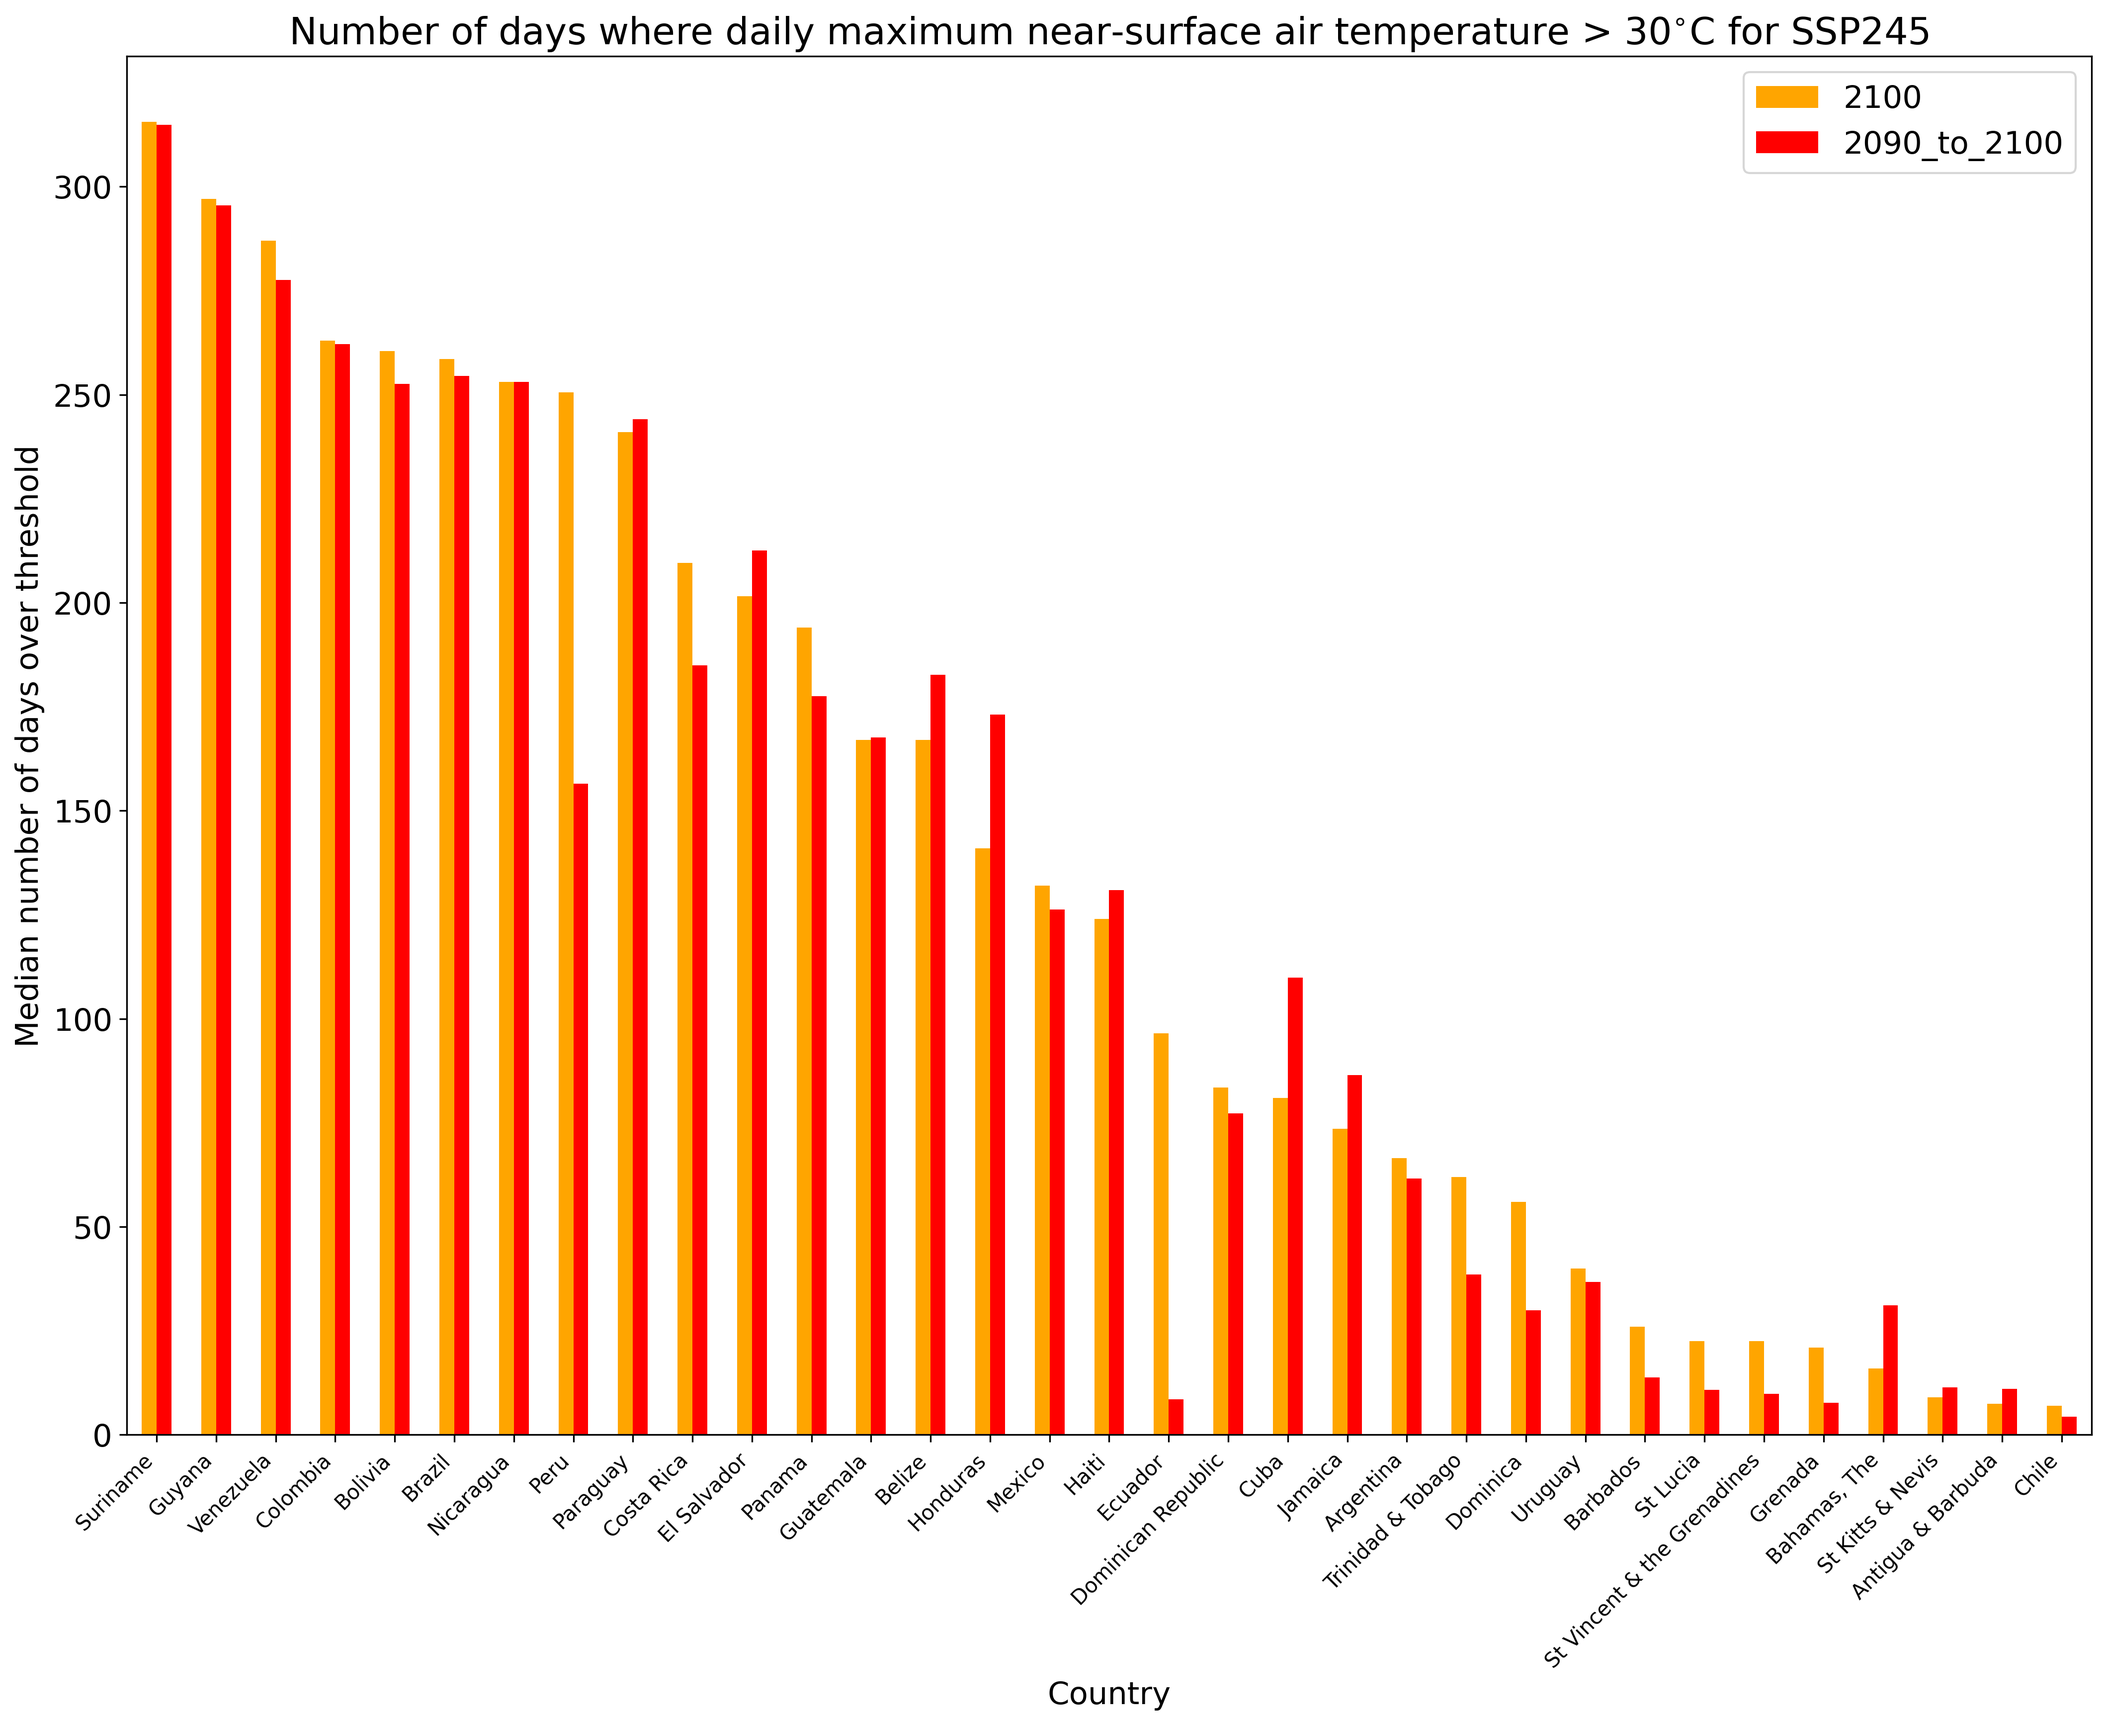
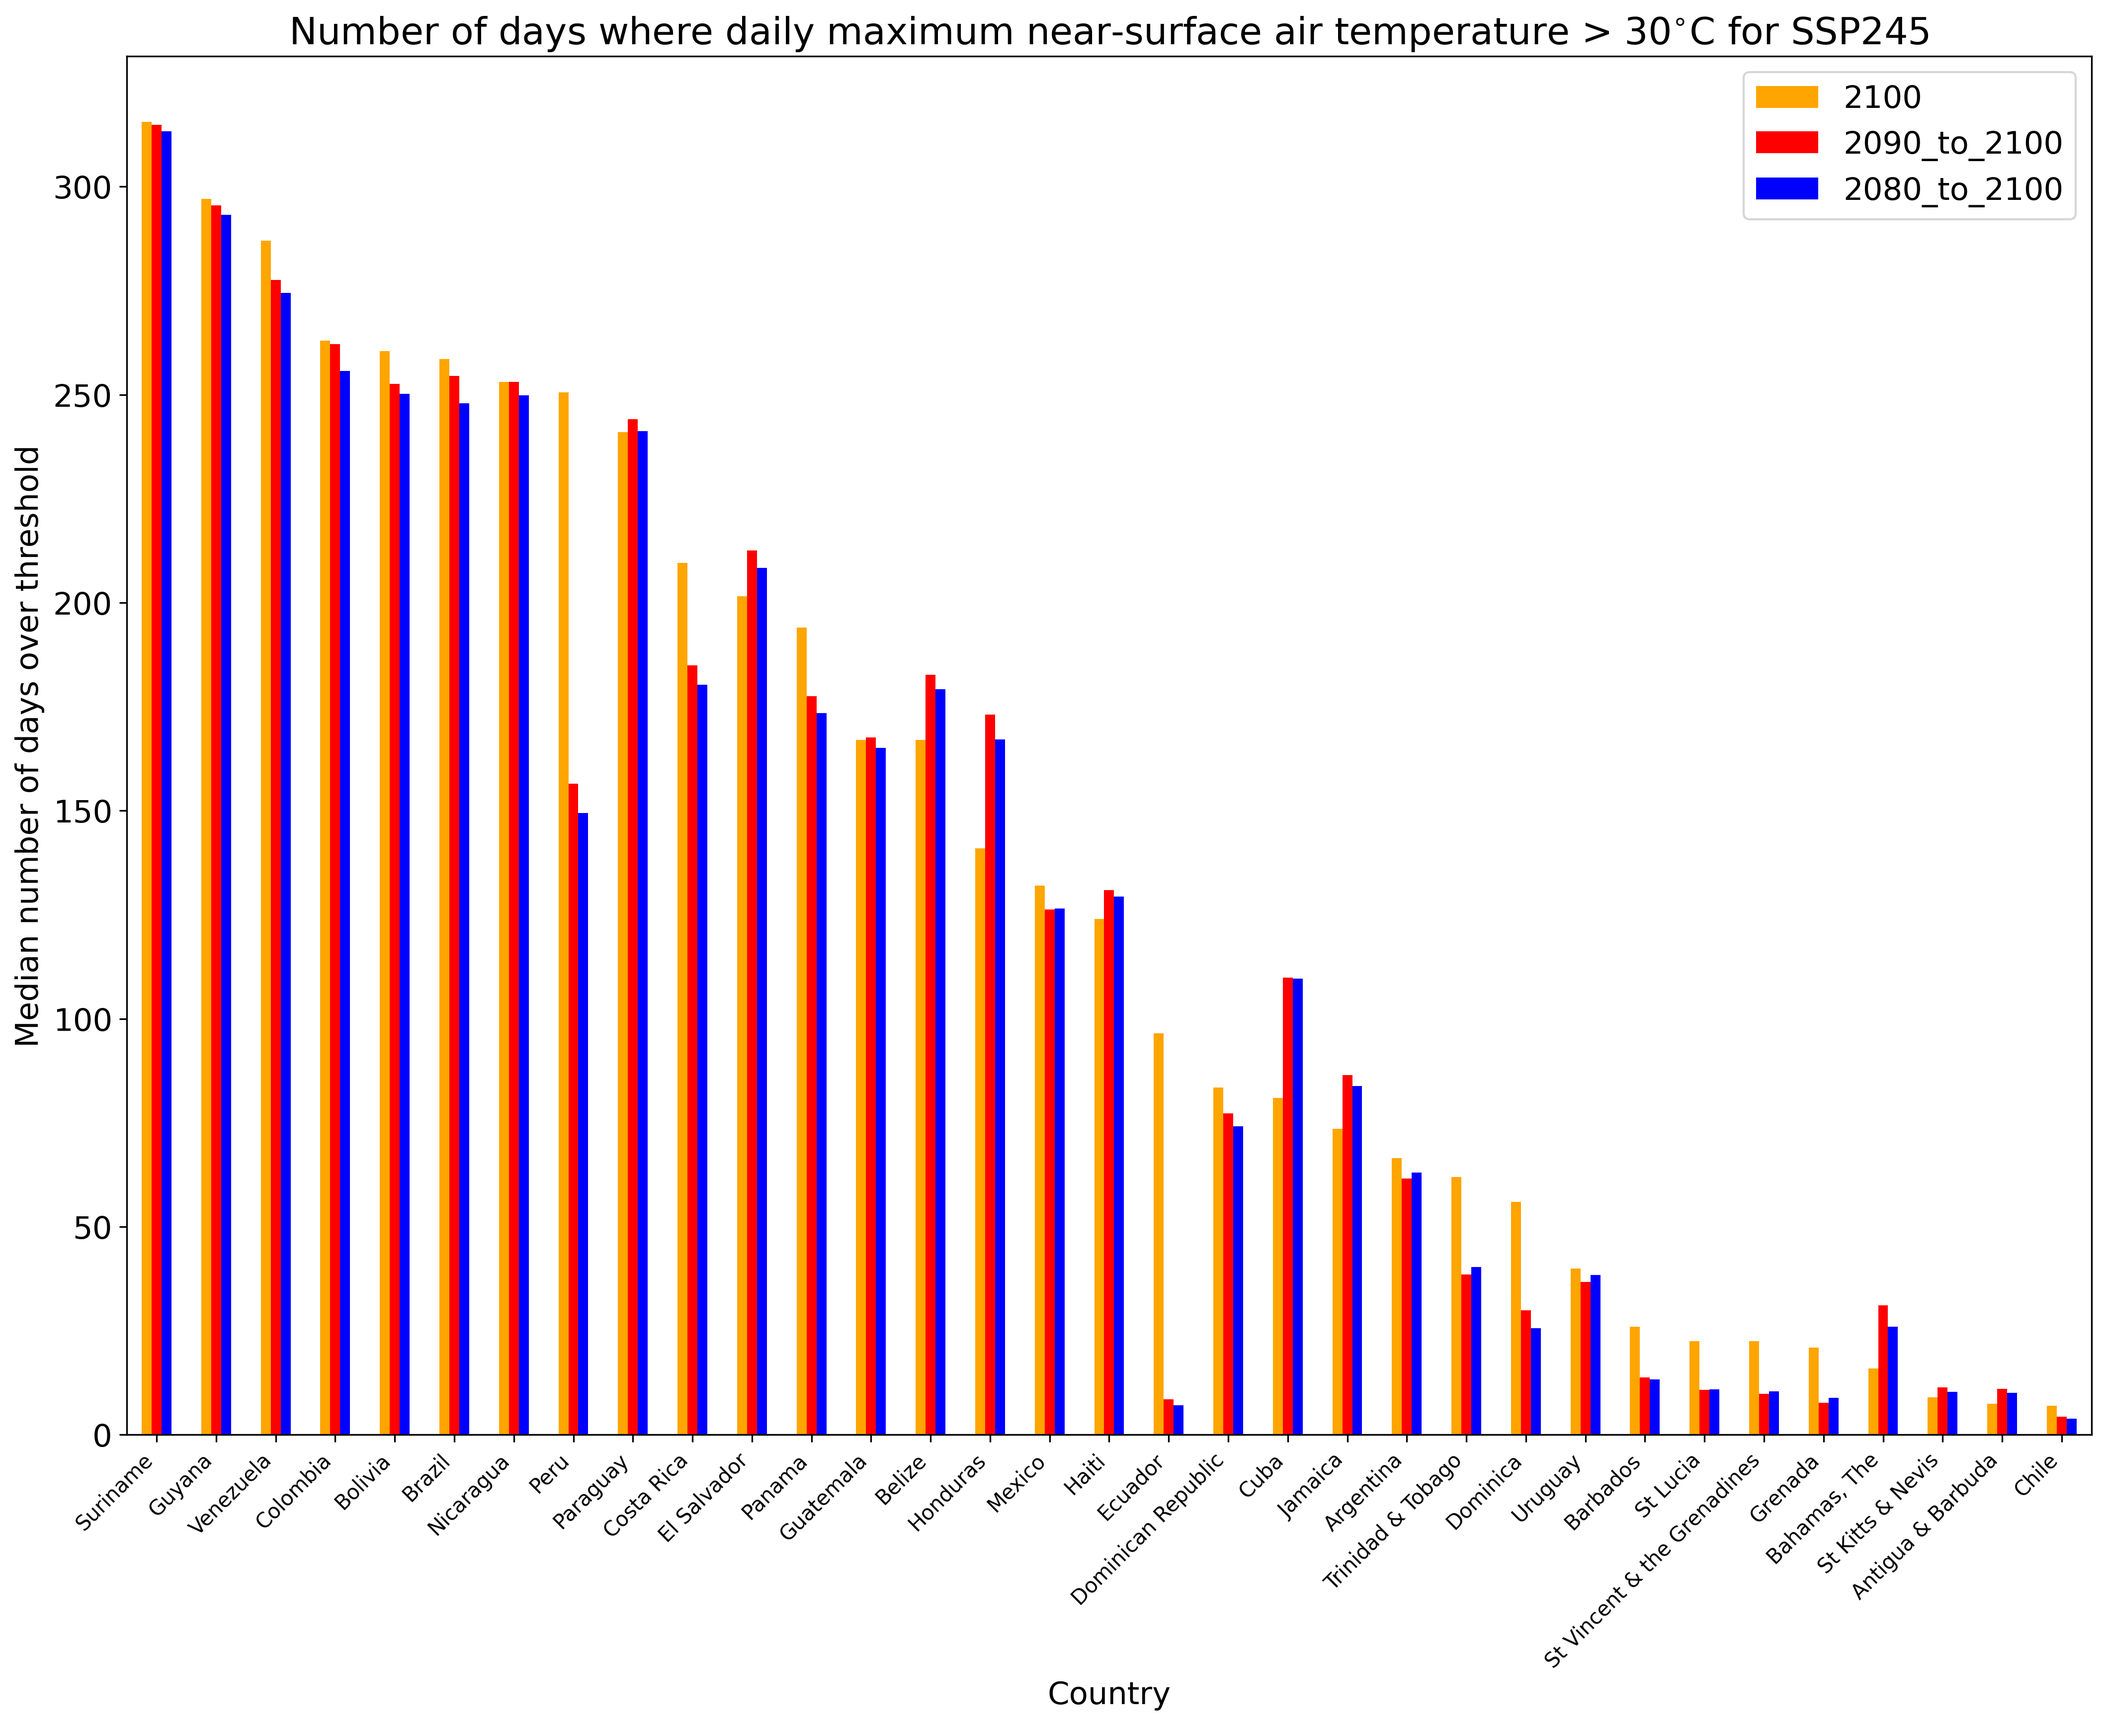
test plot the 20 years vs. 10
Save csvs to prevent memory crashes in pc

Changed region(s): [[0.0623, 0.0623, 0.9658, 0.8406], [0.81, 0.0934, 0.9969, 0.1245]]

diff --git a/heat_scan/LCR/LCR_functions.py b/heat_scan/LCR/LCR_functions.py
@@ -51,28 +51,87 @@ def define_study_cities(current_dir=os.getcwd().replace('\\', '/') + '/', plot=F
     return city_coords_gdf
 
 
-def days_over_threshold(data_dict, threshold, year):
+def days_over_threshold(data_dict, threshold, year, source_id, **kwargs):
     """
 
     :return:
     """
     # ToDo: Docstring here
 
-    days_dict = {}
-    for country in data_dict:
-        ds = data_dict[country]
-        high_vals = xr.where(ds > threshold, 1, 0)  # set all temps over threshold = 1; others to 0
-        summed_vals = high_vals.sum(dim='time')
+    print(' ')
 
-        # replace any 0 values with nan
-        summed_vals = summed_vals.where(summed_vals > 0)
+    days_list = []
+
+    for country in data_dict:
+
+        print(country)
+
+        # check to see if file already exists
 
         if type(year) == list:
-            summed_vals = summed_vals / len(year)
+            year_label = str(year[0]) + '_to_' + str(year[-1])
+        else:
+            assert type(year) == int
+            year_label = str(year)
 
-        days_dict[country] = summed_vals
+        current_dir = os.getcwd().replace('\\', '/') + '/'
+        csv_dir = current_dir + 'stats_countries/' + year_label + '/'
+        assert os.path.exists(csv_dir)
 
-    return days_dict
+        this_filename = country + '_' + source_id + '_' + kwargs['experiment_id'] + '.csv'
+
+        if os.path.isfile(csv_dir + this_filename):
+
+            # the file exists, read the file
+            df = pd.read_csv(csv_dir + this_filename)
+
+            days_list.append(df)
+
+        else:
+
+            ds = data_dict[country]
+            high_vals = xr.where(ds.tasmax > threshold, 1, 0)  # set all temps over threshold = 1; others to 0
+            summed_vals = high_vals.sum(dim='time')
+
+            # replace any 0 values with nan
+            summed_vals = summed_vals.where(summed_vals > 0)
+
+            if type(year) == list:
+                summed_vals = summed_vals / len(year)
+
+            summed_vals = summed_vals.compute()
+
+            mean_val = np.nanmean(summed_vals)
+            max_val = np.nanmax(summed_vals)
+            min_val = np.nanmin(summed_vals)
+            median_val = np.nanmedian(summed_vals)
+
+            mean_temp = np.nanmean(summed_vals)
+            max_temp = np.nanmax(summed_vals)
+            min_temp = np.nanmin(summed_vals)
+            median_temp = np.nanmedian(summed_vals)
+
+            df_dict = {'Country': [country], 'Mean days': [mean_val], 'Median days': [median_val],
+                       'Max days': [max_val],
+                       'Min days': [min_val],
+                       'Mean temp': [mean_temp], 'Median temp': [median_temp], 'Max temp': [max_temp],
+                       'Min temp': [min_temp]}
+
+            df = pd.DataFrame.from_dict(df_dict)
+
+            df.to_csv(csv_dir + this_filename)
+
+            days_list.append(df)
+
+    combined_df = pd.concat(days_list)
+
+    combined_df.index = combined_df.Country
+    combined_df = combined_df.drop(columns=['Country'])
+
+    if 'Unnamed: 0' in combined_df.columns:
+        combined_df = combined_df.drop(columns=['Unnamed: 0'])
+
+    return combined_df
 
 
 def days_over_threshold_stats(ds, polygon_df, threshold, year, source_id, test=False, plot=False, **kwargs):
@@ -91,44 +150,19 @@ def days_over_threshold_stats(ds, polygon_df, threshold, year, source_id, test=F
     var_name = list(ds.keys())[0]
 
     data_dict = polygon_funs.select_data_in_multiple_country_polygons(array=ds[var_name], polygon_df=polygon_df,
-                                                                      plot=plot, **kwargs)
+                                                                      plot=plot, year=year, **kwargs)
 
-    day_count_dict = days_over_threshold(data_dict=data_dict,
-                                         threshold=threshold + constants.convert_kelvin, year=year)
+    df = days_over_threshold(data_dict=data_dict,
+                             threshold=threshold + constants.convert_kelvin, year=year, source_id=source_id,
+                             **kwargs)
 
-    mean_vals = []
-    max_vals = []
-    min_vals = []
-    median_vals = []
-
-    mean_temp = []
-    max_temp = []
-    min_temp = []
-    median_temp = []
-
-    countries_list = polygon_df.shapeName.to_list()
-
-    for country in countries_list:
-        mean_vals.append(np.nanmean(day_count_dict[country]))
-        max_vals.append(np.nanmax(day_count_dict[country]))
-        min_vals.append(np.nanmin(day_count_dict[country]))
-        median_vals.append(np.nanmedian(day_count_dict[country]))
-
-        mean_temp.append(np.nanmean(data_dict[country]))
-        max_temp.append(np.nanmax(data_dict[country]))
-        min_temp.append(np.nanmin(data_dict[country]))
-        median_temp.append(np.nanmedian(data_dict[country]))
-
-    df_dict = {'Country': countries_list, 'Mean days': mean_vals, 'Median days': median_vals, 'Max days': max_vals,
-               'Min days': min_vals,
-               'Mean temp': mean_temp, 'Median temp': median_temp, 'Max temp': max_temp, 'Min temp': min_temp}
-    df = pd.DataFrame.from_dict(df_dict)
-
+    # save combined csv
     if type(year) == list:
         year_label = str(year[0]) + '_to_' + str(year[-1])
     else:
         assert type(year) == int
         year_label = str(year)
 
-    df.to_csv(os.getcwd().replace('\\', '/') + '/' + year_label + '_days_over_' + str(
-        threshold) + '_' + source_id + test_flag + '.csv')
+    df.to_csv(os.getcwd().replace('\\', '/') + '/' + year_label + '_days_over_' + str(threshold) + '_' + source_id + test_flag + '.csv')
+
+    print('end')

diff --git a/heat_scan/tools/polygons/polygon_funs.py b/heat_scan/tools/polygons/polygon_funs.py
@@ -137,7 +137,7 @@ def select_country_boundaries(polygon_df, country_name_list, plot=False):
     return country_df
 
 
-def select_data_in_multiple_country_polygons(array, polygon_df, plot=False, **kwargs):
+def select_data_in_multiple_country_polygons(array, polygon_df, year, plot=False, **kwargs):
     """
 
     :return:
@@ -149,7 +149,7 @@ def select_data_in_multiple_country_polygons(array, polygon_df, plot=False, **kw
     count = 1
     for index, row in polygon_df.iterrows():
         print(str(count) + '/' + str(len(polygon_df)) + ': ' + row.shapeName)
-        data_dict[row.shapeName] = select_data_in_polygon(array, row, plot=plot, country=row.shapeName, **kwargs)
+        data_dict[row.shapeName] = select_data_in_polygon(array, row, year, plot=plot, country=row.shapeName, **kwargs)
         count += 1
 
     return data_dict
@@ -174,34 +174,57 @@ def apply_mask(array, mask):
     return array.where(mask_expanded)
 
 
-def select_data_in_polygon(array, polygon, plot=False, **kwargs):
+def select_data_in_polygon(array, polygon, year, plot=False, **kwargs):
     """
     Function which grabs the data overlapping with a city boundary
     :return:
     """
 
-    # Create mask
-    mask = create_mask(polygon, array)
+    # Check to see if country netCDF exists
 
-    # Apply mask
-    masked_data = apply_mask(array, mask)
+    # dir to the netCDF folder
+    current_dir = os.getcwd().replace('\\', '/') + '/'
 
+    if type(year) == list:
+        year_label = str(year[0]) + '_to_' + str(year[-1])
+    else:
+        assert type(year) == int
+        year_label = str(year)
+
+    netcdf_dir = current_dir + 'netCDF_countries/' + year_label + '/'
+    assert os.path.exists(netcdf_dir)
+
+    # check the folder for the run and country
     # export country data as netcdf
     if 'source_id' in kwargs.keys():
         source_id = kwargs['source_id']
     else:
         source_id = 'GFDL-ESM4'
+    this_filename = kwargs['country'] + '_' + source_id + '_' + kwargs['experiment_id'] + '.nc'
 
-    current_dir = os.getcwd().replace('\\', '/') + '/'
-    assert os.path.exists(current_dir + 'netCDF_countries/')
-    masked_data.compute().to_netcdf(
-        current_dir + 'netCDF_countries/' + kwargs['country'] + '_' + source_id + '_' + kwargs['experiment_id'] + '.nc')
+    if os.path.isfile(netcdf_dir + this_filename):
+
+        # read the netCDF
+        masked_data = xr.open_dataset(netcdf_dir + this_filename)
+
+    else:
+
+        # Create mask
+        mask = create_mask(polygon, array)
+
+        # Apply mask
+        masked_data = apply_mask(array, mask)
+
+        # save as netDCF
+        masked_data.compute().to_netcdf(
+            current_dir + 'netCDF_countries/' + year_label + '/' + kwargs['country'] + '_' + source_id + '_' + kwargs[
+                'experiment_id'] + '.nc')
 
     if plot:
         # check w/ data: fig
         fig = plt.figure(figsize=(8, 7))
         ax = plt.subplot(1, 1, 1)
-        masked_data.isel(time=0).plot(ax=ax, zorder=1)
+        masked_data.tasmax.isel(time=0).plot.imshow(ax=ax, zorder=1)
         gpd.GeoSeries([polygon.geometry]).plot(ax=ax, facecolor='r', zorder=2)
         # ax.scatter(point.x, point.y, c='k')
         assert 'country' in kwargs.keys()

diff --git a/heat_scan/LCR/days_over_threshold_barchart.py b/heat_scan/LCR/days_over_threshold_barchart.py
@@ -28,7 +28,8 @@ def read_csvs_for_bar(years, current_dir=os.getcwd().replace('\\', '/') + '/', t
         assert os.path.isfile(csv_name)
 
         df = pd.read_csv(csv_name)
-        df = df.drop(columns=['Unnamed: 0'])
+        if 'Unnamed: 0' in df.columns:
+            df = df.drop(columns=['Unnamed: 0'])
         df = df.add_prefix(str(year) + ' ')
 
         df = df.fillna(0)
@@ -68,7 +69,7 @@ def grouped_bar(years, threshold, ssp, source_id, current_dir=os.getcwd().replac
     df_median_days = df_median_days.sort_values(by='2100', ascending=False)
 
     # color_df = {'2015': 'black', '2050': 'purple', '2100': 'orange'}
-    color_df = {'2015': 'black', '2050': 'purple', '2100': 'orange', '2090_to_2100': 'red'}
+    color_df = {'2015': 'black', '2050': 'purple', '2100': 'orange', '2090_to_2100': 'red', '2080_to_2100': 'blue'}
     fig, ax = plt.subplots(1, figsize=(17, 12))
 
     df_median_days.plot.bar(ax=ax, color=color_df)
@@ -217,7 +218,7 @@ if __name__ == "__main__":
     source_id = 'GFDL-ESM4'
     # source_id = 'ACCESS-CM2'
 
-    years = [2100, '2090_to_2100']
+    years = [2100, '2090_to_2100', '2080_to_2100']
 
     # stacked_bar(years=years, threshold=threshold, ssp=ssp, source_id=source_id)
     grouped_bar(years=years, threshold=threshold, ssp=ssp, source_id=source_id)

diff --git a/heat_scan/LCR/main_LCR.py b/heat_scan/LCR/main_LCR.py
@@ -23,8 +23,8 @@ region = 'LCR'
 # source_id = 'CSIRO-ARCCSS'
 source_id = 'GFDL-ESM4'
 
-test = True
-# test = False
+# test = True
+test = False
 
 ########################################################################################################################
 country_df = polygon_funs.get_country_df(test=test, region=region)
